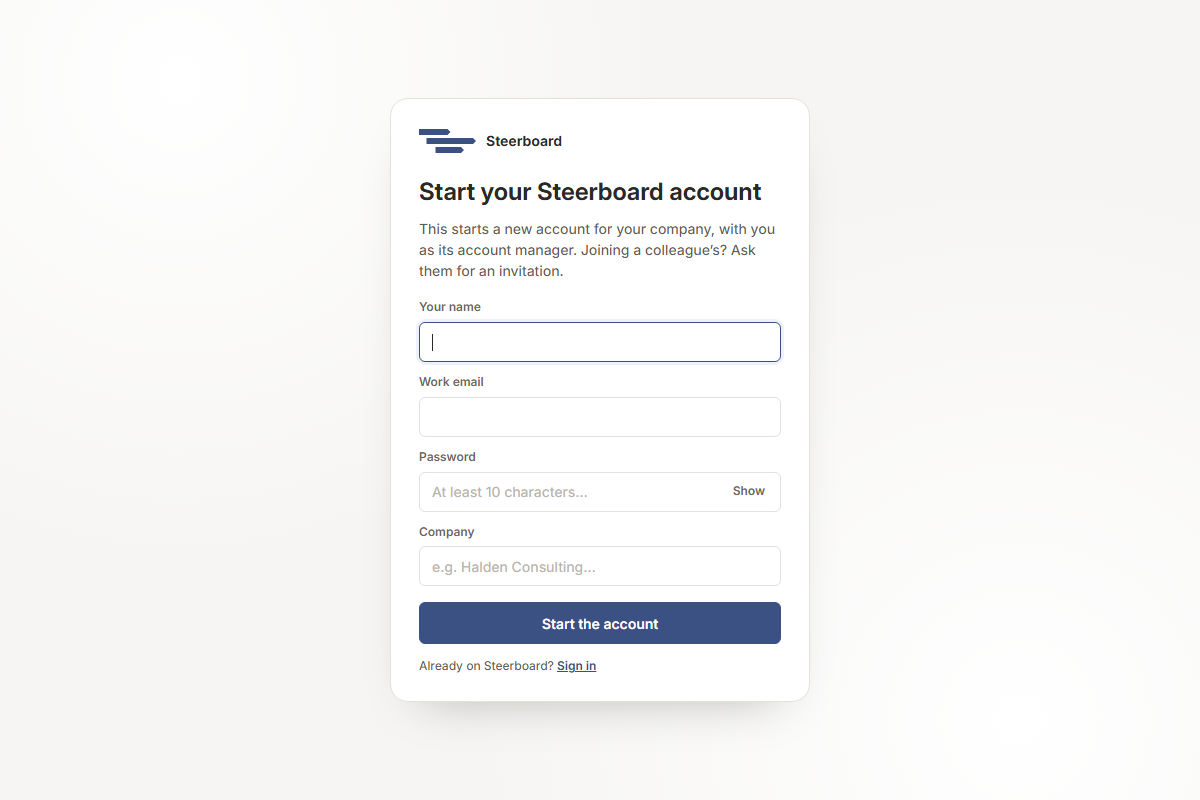
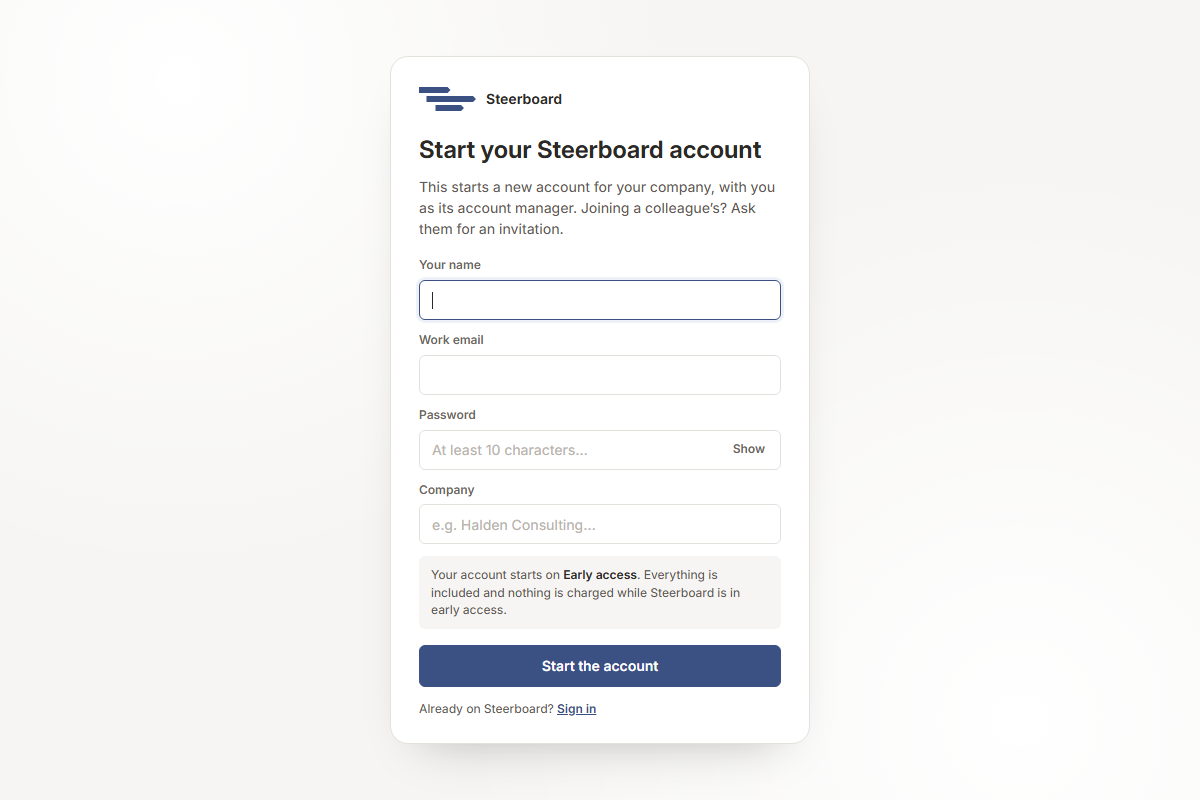
A new account starts on Early access, and the sign-up page says so
The user, 2026-11-14: "For now, let's have the early access plan available
when signing up."

Every account without a tier of its own already has Early access while tiers
aren't in force. The sign-up page now says what a new account starts on, above
its button, from the tier it gets that day (the server's info for someone not
yet signed in carries its name and line). Early access's line became the
sentence shown. SCENARIOS.md TR16; PROGRESS.md X46.

diff --git a/pages/whats-new.md b/pages/whats-new.md
@@ -7,7 +7,8 @@ What has changed in Steerboard, newest first.
 **The account's subscription.** Settings has a **Subscription** card for
 account managers: the account's tier, and how many of its seats, projects and
 people are used. Steerboard is in early access, so every account still has
-everything and nothing is charged.
+everything and nothing is charged. A new account starts on Early access too,
+and the sign-up page says so.
 
 **Contributors and viewers see only what they can do.** A contributor was
 shown **New project**, the **People** page and **Make a copy**, and was told

diff --git a/pages/getting-started/account.md b/pages/getting-started/account.md
@@ -19,6 +19,10 @@ make groups and change the account's settings (see
 [People and groups](../sharing/people.md)). The account starts with two projects to look
 around in (see [Your first project](first-project.md)).
 
+The sign-up page says what your account starts on. For now that's Early
+access: everything is included and nothing is charged. See
+[The subscription](../sharing/settings.md#the-subscription).
+
 ## Joining a colleague's account
 
 Don't sign up on your own if your firm already uses Steerboard: you'd start a
